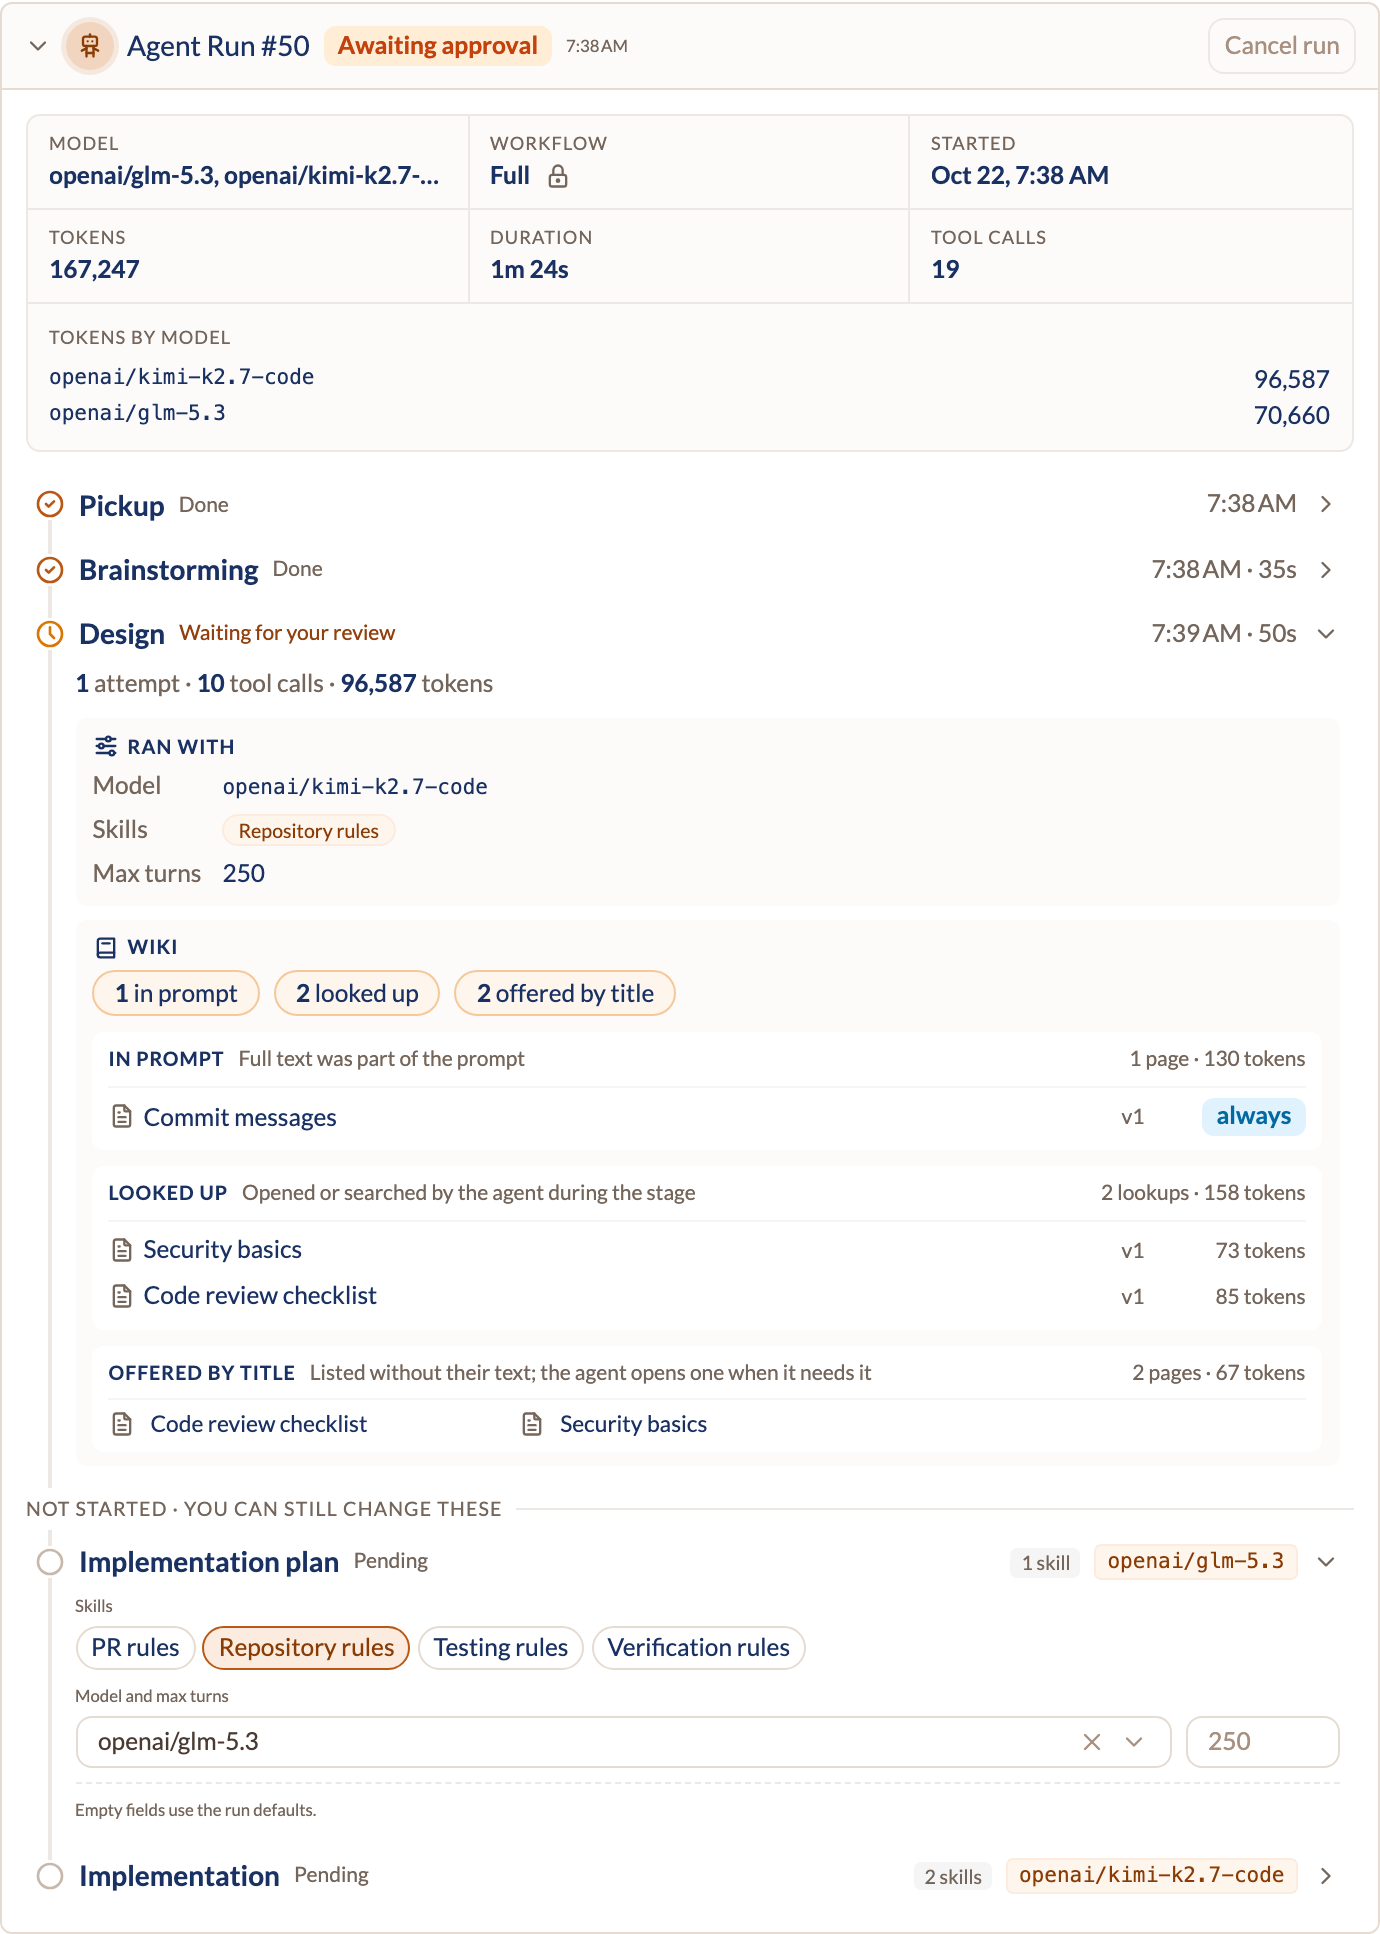
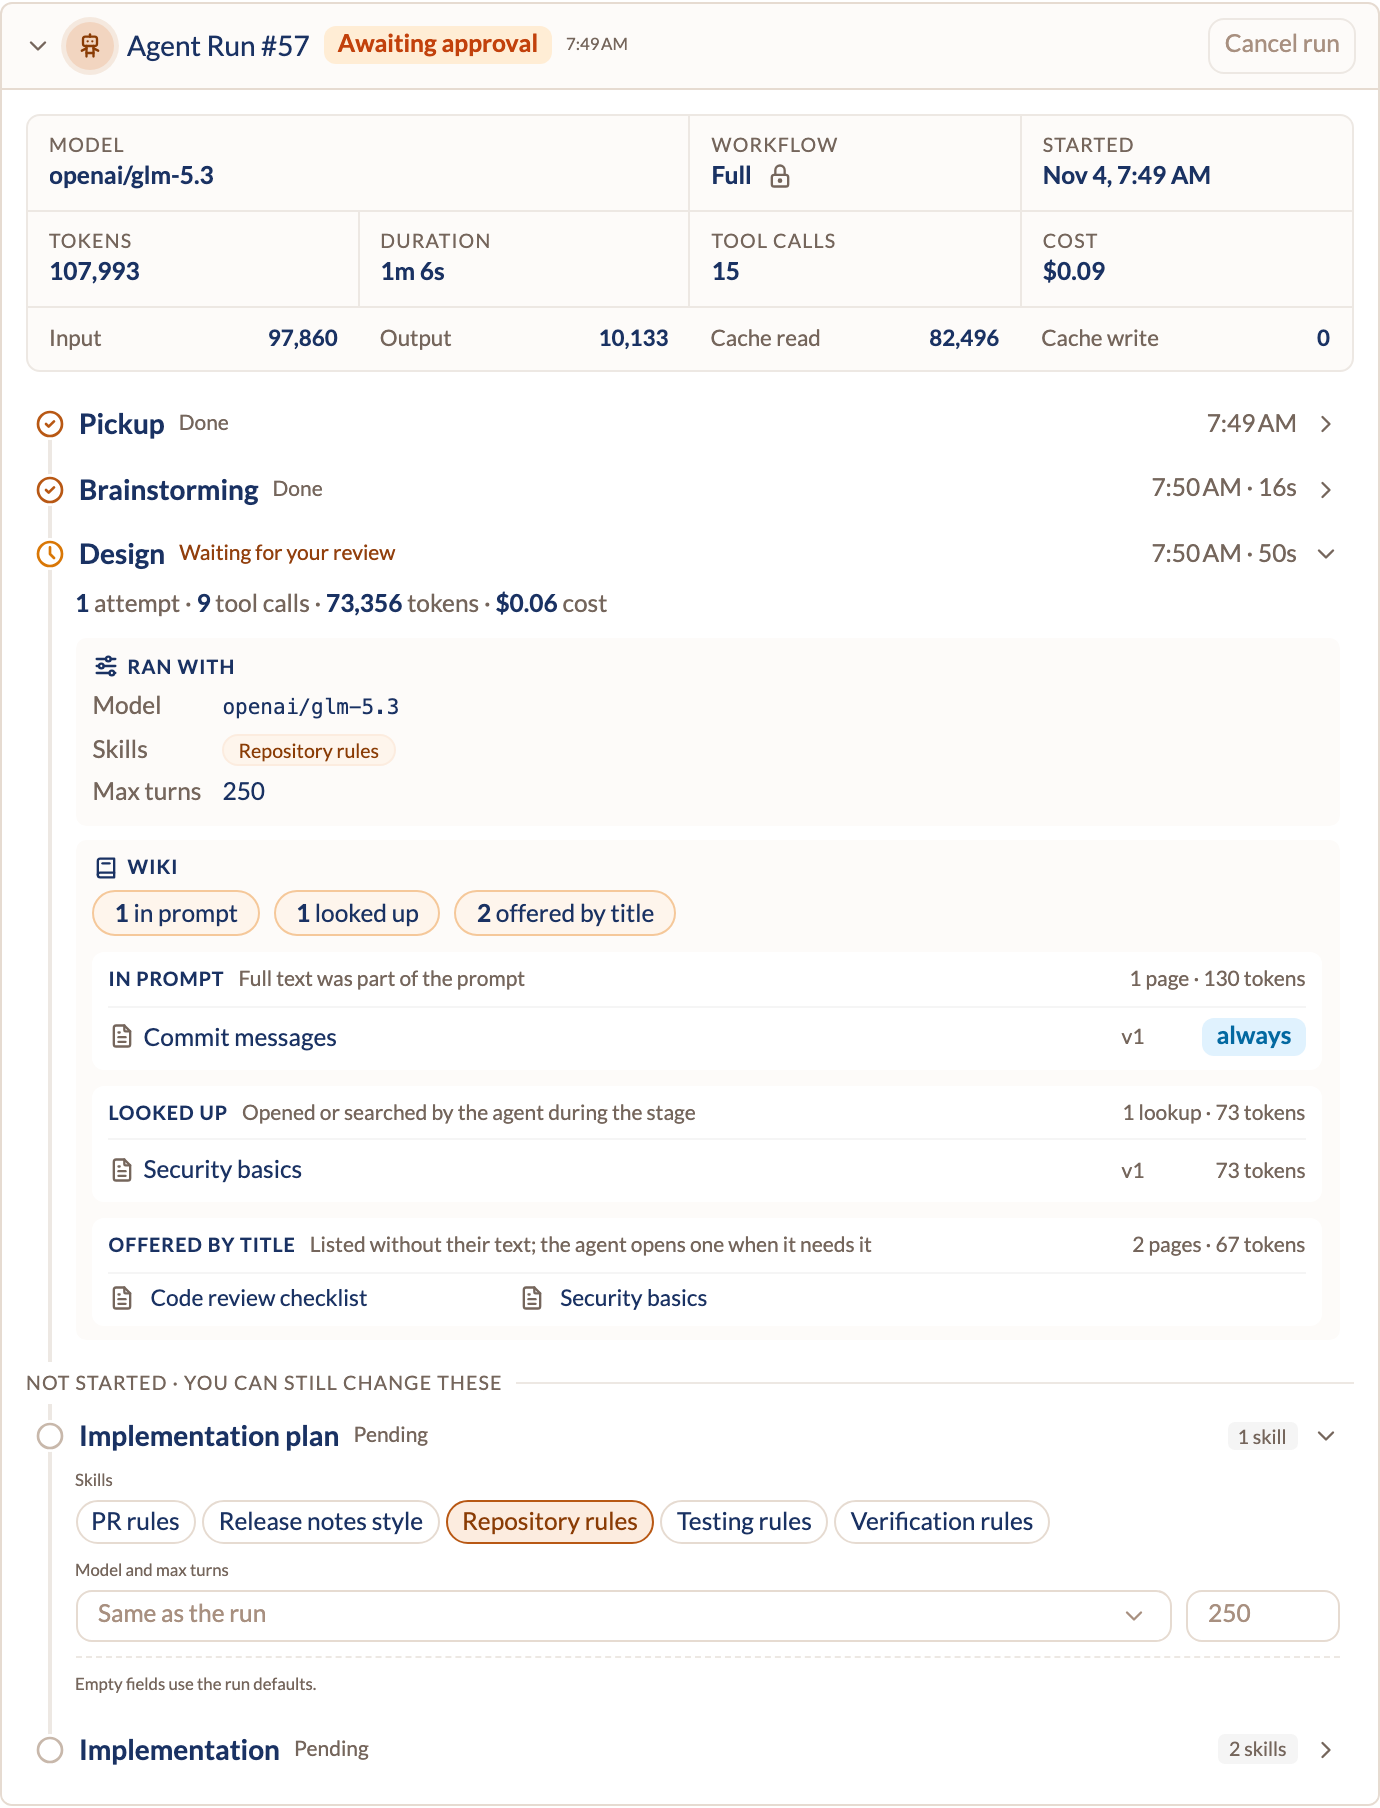
Lay out the run summary in four columns and label the stage cost
Cost no longer sits alone on a third row with broken borders, and the token breakdown lines up under the grid. The stage line now reads "$0.06 cost" like its other numbers.

diff --git a/client/src/app/agent/components/agent-run-summary/agent-run-summary.component.html b/client/src/app/agent/components/agent-run-summary/agent-run-summary.component.html
@@ -1,7 +1,7 @@
 @let totals = stats();
 <div class="run-summary" data-testid="run-summary">
     <div class="run-summary__kpis">
-        <div class="run-summary__kpi flex min-w-0 flex-col">
+        <div class="run-summary__kpi run-summary__kpi--wide flex min-w-0 flex-col">
             <span class="run-summary__label">{{ 'AGENT.SIDEBAR.MODEL' | translate }}</span>
             <span class="run-summary__value" data-testid="run-model">
                 {{ model() ?? ('AGENT.SIDEBAR.MODEL_GATEWAY_DEFAULT' | translate) }}
@@ -89,15 +89,24 @@
         </div>
     </div>
     @if (tokenBreakdown(); as breakdown) {
-        <div class="run-summary__models" data-testid="run-token-breakdown">
-            {{ 'AGENT.STATS.INPUT_TOKENS' | translate }} {{ breakdown.totalInputTokens | number }} ·
-            {{ 'AGENT.STATS.OUTPUT_TOKENS' | translate }}
-            {{ breakdown.totalOutputTokens | number }} ·
-            {{ 'AGENT.STATS.CACHE_READ_TOKENS' | translate }}
-            {{ breakdown.totalCacheReadTokens | number }}
-            · {{ 'AGENT.STATS.CACHE_WRITE_TOKENS' | translate }}
-            {{ breakdown.totalCacheWriteTokens | number }}
-        </div>
+        <dl class="run-summary__breakdown" data-testid="run-token-breakdown">
+            <div class="run-summary__part">
+                <dt>{{ 'AGENT.STATS.INPUT_TOKENS' | translate }}</dt>
+                <dd>{{ breakdown.totalInputTokens | number }}</dd>
+            </div>
+            <div class="run-summary__part">
+                <dt>{{ 'AGENT.STATS.OUTPUT_TOKENS' | translate }}</dt>
+                <dd>{{ breakdown.totalOutputTokens | number }}</dd>
+            </div>
+            <div class="run-summary__part">
+                <dt>{{ 'AGENT.STATS.CACHE_READ_TOKENS' | translate }}</dt>
+                <dd>{{ breakdown.totalCacheReadTokens | number }}</dd>
+            </div>
+            <div class="run-summary__part">
+                <dt>{{ 'AGENT.STATS.CACHE_WRITE_TOKENS' | translate }}</dt>
+                <dd>{{ breakdown.totalCacheWriteTokens | number }}</dd>
+            </div>
+        </dl>
     }
     @if (modelRows().length > 0) {
         <div class="run-summary__models" data-testid="run-tokens-by-model">

diff --git a/client/src/app/agent/components/agent-run-summary/agent-run-summary.component.scss b/client/src/app/agent/components/agent-run-summary/agent-run-summary.component.scss
@@ -4,30 +4,55 @@
 
 .run-summary {
     border: 1px solid var(--ui-surface-200);
+    overflow: hidden;
     border-radius: 0.5rem;
     background: var(--ui-surface-50);
 }
 
 .run-summary__kpis {
     display: grid;
-    grid-template-columns: repeat(3, minmax(0, 1fr));
+    grid-template-columns: repeat(4, minmax(0, 1fr));
+    gap: 1px;
+    background: var(--ui-surface-200);
 }
 
 .run-summary__kpi {
     padding: 0.5rem 0.75rem;
-    border-right: 1px solid var(--ui-surface-200);
+    background: var(--ui-surface-50);
+}
 
-    &:nth-child(3n) {
-        border-right: 0;
+.run-summary__kpi--wide {
+    grid-column: span 2;
+}
+
+.run-summary__breakdown {
+    display: grid;
+    grid-template-columns: repeat(4, minmax(0, 1fr));
+    margin: 0;
+    padding: 0.5rem 0;
+    border-top: 1px solid var(--ui-surface-200);
+    font-size: 0.8rem;
+}
+
+.run-summary__part {
+    display: flex;
+    justify-content: space-between;
+    gap: 0.5rem;
+    padding: 0 0.75rem;
+
+    dt {
+        color: var(--ui-color-text-muted);
     }
 
-    &:nth-child(-n + 3) {
-        border-bottom: 1px solid var(--ui-surface-200);
+    dd {
+        margin: 0;
+        font-weight: 600;
+        font-variant-numeric: tabular-nums;
     }
 }
 
 .run-summary__label {
-    font-size: 0.65rem;
+    font-size: 0.7rem;
     letter-spacing: 0.06em;
     text-transform: uppercase;
     color: var(--ui-color-text-muted);

diff --git a/client/src/app/agent/components/agent-run-summary/agent-run-summary.component.browser.spec.ts b/client/src/app/agent/components/agent-run-summary/agent-run-summary.component.browser.spec.ts
@@ -103,12 +103,18 @@ describe('AgentRunSummaryComponent (browser)', () => {
         });
 
         expect(text('run-cost')).toBe('$0.42');
-        const breakdown =
-            root.querySelector('[data-testid="run-token-breakdown"]')?.textContent ?? '';
-        expect(breakdown).toContain('AGENT.STATS.INPUT_TOKENS 12');
-        expect(breakdown).toContain('AGENT.STATS.OUTPUT_TOKENS 3,456');
-        expect(breakdown).toContain('AGENT.STATS.CACHE_READ_TOKENS 150,000');
-        expect(breakdown).toContain('AGENT.STATS.CACHE_WRITE_TOKENS 20,000');
+        const parts = Array.from(
+            root.querySelectorAll('[data-testid="run-token-breakdown"] > div')
+        ).map(part => [
+            part.querySelector('dt')?.textContent?.trim(),
+            part.querySelector('dd')?.textContent?.trim()
+        ]);
+        expect(parts).toEqual([
+            ['AGENT.STATS.INPUT_TOKENS', '12'],
+            ['AGENT.STATS.OUTPUT_TOKENS', '3,456'],
+            ['AGENT.STATS.CACHE_READ_TOKENS', '150,000'],
+            ['AGENT.STATS.CACHE_WRITE_TOKENS', '20,000']
+        ]);
     });
 
     it('marks an estimated cost with ≈', () => {

diff --git a/client/src/app/agent/components/agent-stage-card/agent-stage-card.component.browser.spec.ts b/client/src/app/agent/components/agent-stage-card/agent-stage-card.component.browser.spec.ts
@@ -153,6 +153,24 @@ describe('AgentStageCardComponent (browser)', () => {
         expect(text('run-wiki-stage')).toContain('Commit messages');
     });
 
+    it('labels the stage cost after its value, like the other numbers', () => {
+        render(
+            view({
+                stage: 'design',
+                status: 'awaiting_approval',
+                attempts: 1,
+                toolCallsCount: 7,
+                tokensUsed: 12000,
+                costUsd: 0.0123,
+                costEstimated: false
+            })
+        );
+
+        expect(text('stage-card-usage-design')).toBe(
+            '1 AGENT.STAGE_CARD.ATTEMPTS.SINGULAR · 7 AGENT.STAGE_CARD.TOOL_CALLS.PLURAL · 12,000 AGENT.STAGE_CARD.TOKENS.PLURAL · $0.01 AGENT.STAGE_CARD.COST'
+        );
+    });
+
     it('keeps a finished stage closed until the user opens it', () => {
         render(view({ stage: 'brainstorming', status: 'done', attempts: 1 }));
         expect(byTestId('stage-card-body-brainstorming')).toBeNull();

diff --git a/client/src/app/agent/components/agent-stage-card/agent-stage-card.component.html b/client/src/app/agent/components/agent-stage-card/agent-stage-card.component.html
@@ -96,6 +96,7 @@
                             >
                                 {{ card.cost }}
                             </b>
+                            {{ 'AGENT.STAGE_CARD.COST' | translate }}
                         }
                     </div>
                     @if (card.agentName || card.approvedAt) {
